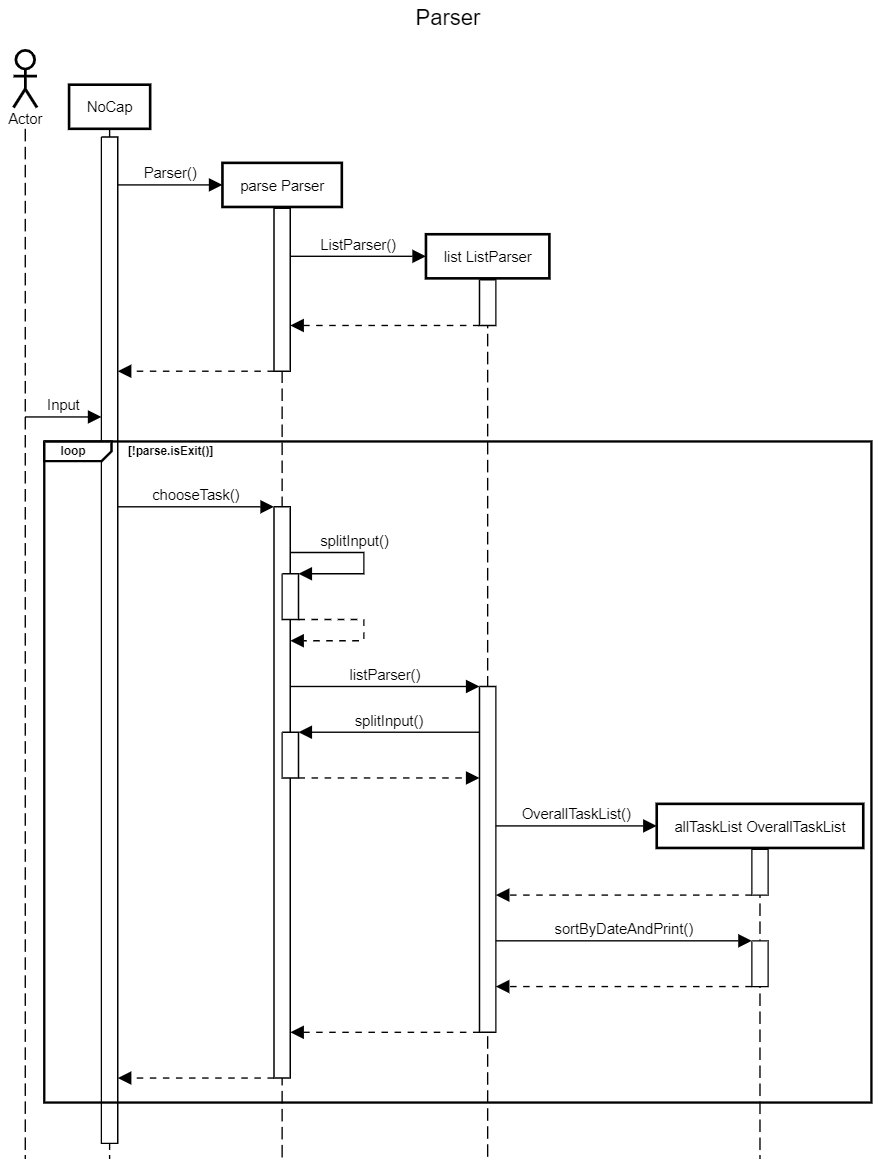
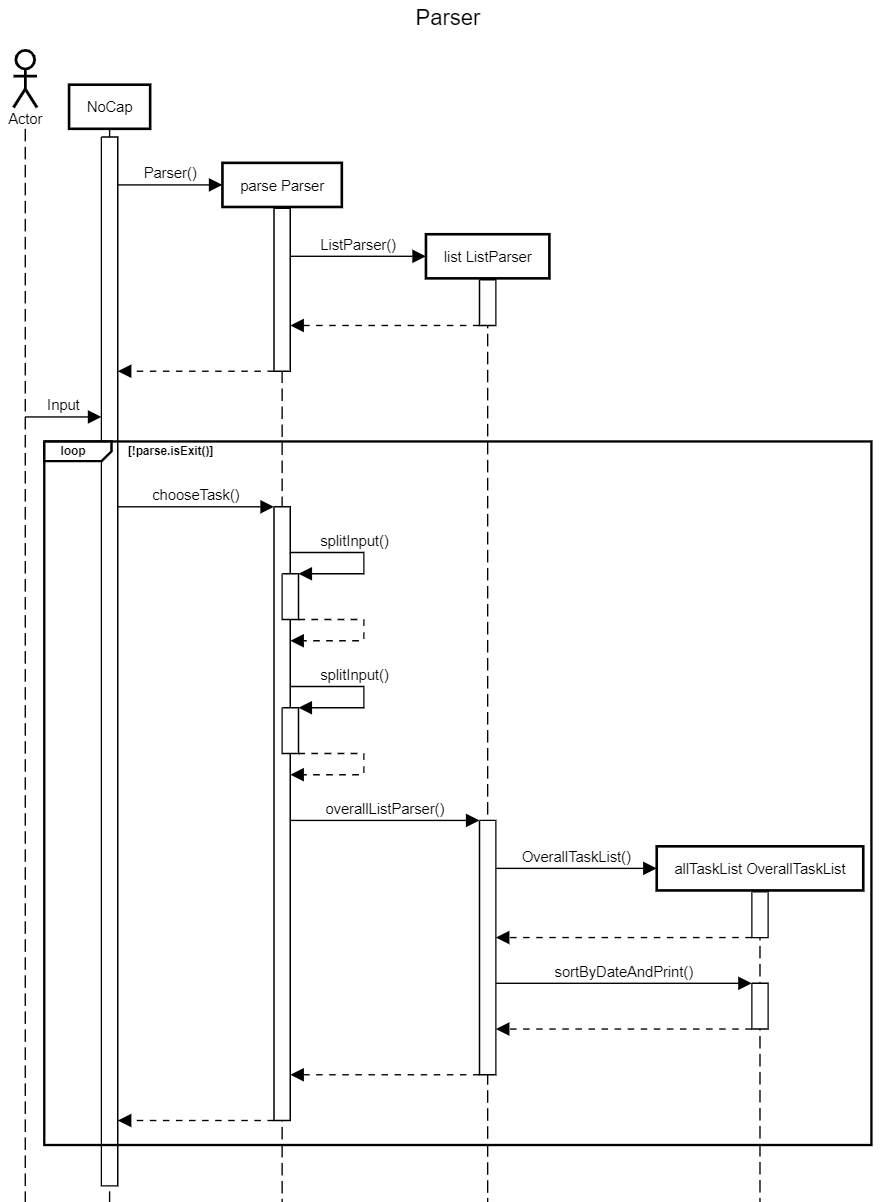
update DG

diff --git a/src/main/java/command/parser/Parser.java b/src/main/java/command/parser/Parser.java
@@ -113,8 +113,8 @@ public class Parser {
      * @param input String to be separated
      */
     void moduleParser(String input) {
-        Module module;
         splitInput(input);
+        Module module;
         try {
             module = NoCap.moduleList.find(taskType.toUpperCase(Locale.ROOT));
         } catch (ArrayIndexOutOfBoundsException e) {

diff --git a/src/test/java/command/parser/CommandTest.java b/src/test/java/command/parser/CommandTest.java
@@ -18,7 +18,7 @@ import static org.junit.jupiter.api.Assertions.assertEquals;
 
 public class CommandTest {
 
-    /*
+      /*
     @Test
     public void variousCommands_missingDescription_ErrorMessage() {
         NoCap.moduleList = new ModuleList();

diff --git a/src/main/java/command/parser/Command.java b/src/main/java/command/parser/Command.java
@@ -14,6 +14,7 @@ public class Command {
 
     private final ParserChecks parserChecks = new ParserChecks();
 
+
     public Command() {
     }
 
@@ -196,4 +197,5 @@ public class Command {
             selectedTask.markNotDone();
         }
     }
+
 }

diff --git a/docs/DeveloperGuide.md b/docs/DeveloperGuide.md
@@ -1,5 +1,7 @@
 # Developer Guide
 
+## *Navigation
+
 ## Acknowledgements
 
 {list here sources of all reused/adapted ideas, code, documentation, and third-party libraries -- include links to the original source as well}
@@ -10,52 +12,9 @@ Third party libraries:
 - [Jackson Datatype-jsr310](https://mvnrepository.com/artifact/com.fasterxml.jackson.datatype/jackson-datatype-jsr310)
 - [Jackson Annotations](https://mvnrepository.com/artifact/com.fasterxml.jackson.core/jackson-annotations)
 
-## Design & implementation
+# Design & Implementation
 
-{Describe the design and implementation of the product. Use UML diagrams and short code snippets where applicable.}
-
-
-## Product scope
-### Target user profile
-
-{Describe the target user profile}
-
-### Value proposition
-
-{Describe the value proposition: what problem does it solve?}
-
-## User Stories
-
-|Version| As a ... | I want to ... | So that I can ...|
-|--------|----------|---------------|------------------|
-|v1.0|new user|see usage instructions|refer to them when I forget how to use the application|
-|v2.0|user|find a to-do item by name|locate a to-do without having to go through the entire list|
-
-## Non-Functional Requirements
-
-{Give non-functional requirements}
-
-## Glossary
-
-* *glossary item* - Definition
-
-## Instructions for manual testing
-
-{Give instructions on how to do a manual product testing e.g., how to load sample data to be used for testing}
-
-
-
--
-# [**Acknowledgements**](https://se-education.org/addressbook-level3/DeveloperGuide.html#acknowledgements)
--
-# [**Setting up, getting started**](https://se-education.org/addressbook-level3/DeveloperGuide.html#setting-up-getting-started)
--
-# [**Design**](https://se-education.org/addressbook-level3/DeveloperGuide.html#design)
-
--
-# [Architecture](https://se-education.org/addressbook-level3/DeveloperGuide.html#architecture)
--
-# [Parser component](https://se-education.org/addressbook-level3/DeveloperGuide.html#ui-component)
+## [Parser](https://se-education.org/addressbook-level3/DeveloperGuide.html#logic-component)
 
 **API** : <code>command.parser </code>
 
@@ -67,39 +26,47 @@ The class diagram below is an overview of relationship between Parser classes an
 
 How the parsing works:
 * `NoCap` passes the user input to `Parser` which separates the input into useful information such as taskType, taskDescription, Module, etc. 
-* This information is used to call the corresponding commands in `ModuleList`, `Module` , `SemesterList`, `Semester` and `OverallTaskList`.
-* When commands include **task selection**, `ParserSearch#getTaskFromIndex()` and `ParserSearch#getTaskFromKeyword()` are called. The corresponding task is returned if found.
-* When commands include **listing tasks**, the taskDescription is passed to `ListParser` which determines the method of sorting and calls `OverallTaskList` methods accordingly.
-* `DateParser` handles parsing String into LocalDateTime format and displaying LocalDateTime as String. It is utilized by `Task`.
+* When commands include **listing tasks**, the taskDescription is passed to `ListParser` which determines the method of sorting and creates filtered `OverallTaskList` and `TaskList` accordingly.
+* Otherwise, the taskDescription is passed to `Command` which calls the corresponding commands in `SemesterList`, `Semester` ,`ModuleList`, `Module` , `Task`, `Gradable Task`. For clarity purposes, associations are shown but dependencies are not.
+* `ParserChecks` is a utility class that handles various error checking and string searching methods such as `ParserSearch#getTaskFromIndex()` and `ParserSearch#getTaskFromKeyword()`. `Command` utilizes these methods to verify the Strings before passing them to other classes. 
+*In NoCap, Parser verifies the validity of input (Whether it exists in the right format). Input content is verified by individual classes for correctness.*
+* `DateParser` handles parsing String into LocalDateTime format and displaying LocalDateTime as String. It is utilized by `Task`. Additional date formats can be added in `DateParser#inputFormatter()`
 
 Below is a step by step example of how the parser receives and decipher a user input. In this example, the user enters `list task sortbydate`.   
 
 The Sequence Diagram below illustrates the process
-![alt_text](media/ParserSequenceDiagram.png)  
+![alt_text](media/ParserSequenceDiagram.png)
 **Note**: The alternate paths are omitted from the diagram for clarity.
 
-Step 1)  
-`NoCap` creates a new `Parser` instance through the constructor. The parser class creates a `ListParser`.
+Step 1: The User launches the application. `NoCap` creates a new `Parser` instance through the constructor and `Parser` creates `ListParser`.
 
-Step 2)  
-User enters `list task sortbydate`. `NoCap` passes the input to `Parser` through `chooseTask()` method.
+Step 2: The application waits for User input. User enters `list task sortbydate`. `NoCap` passes the input to `Parser` through `Parser#chooseTask()`.
 
-Step 3)  
-`splitInput` is called for the first time and splits the user input into `list` and `task sortbydate`. `list` matches a possible command String, calling `listParser()`.  
+Step 3: `splitInput` is called for the first time and splits the user input into `list` and `task sortbydate`. 
 
-Step 4)  
-`splitInput` is called a second time and splits the second part of user input into `task` and `sortbydate`. An instance of `OverallTask` is constructed.  
+> **TaskType** is set to `list`, and **TaskDescription** is set to `task sortbydate`. 
 
-Step 5)  
-`task` and `sortbydate` both matches possible command Strings, calling `sortByDateAndPrint`. 
+**TaskType** matches a possible command String.  
+
+Step 4: `splitInput` is called for the second time and splits the user input into `task` and `sortbydate`.
+
+> **TaskType** is set to `task`, and **TaskDescription** is set to `sortbydate`.
+
+**TaskType** and **TaskDescription** are passed to `ListParser` through `ListParser#overallListParser`.
+
+Step 5: `overallListParser` creates an `OverallTaskList`. Through nested switch cases, **TaskType** and **TaskDescription** are matched, and the corresponding method `OverallTaskList#sortByDateAndPrint()` is called. As the name implies, this method sorts all tasks by date and prints them.
+
+> If **TaskType** does not match, then an error message is displayed. If **TaskDescription** does not match, all tasks are printed by default.
+
+Step 6: The full command is carried out and the application returns to NoCap and waits for new User Input.
 
 The diagram below illustrates the `splitString` process.  
 
 ![alt_text](media/splitStringDiagram.JPG)
 
 
-# [Storage component](https://se-education.org/addressbook-level3/DeveloperGuide.html#logic-component)
--
+## [Storage](https://se-education.org/addressbook-level3/DeveloperGuide.html#logic-component)
+
 **API** : `command.storage`
 
 The Storage component saves data of NoCap into JSON format, and reads them back into corresponding objects when needed using a 3rd party library Jackson Databind.
@@ -140,7 +107,7 @@ How StorageDecoder works:
 # [**Implementation**](https://se-education.org/addressbook-level3/DeveloperGuide.html#implementation)
 
 
-# Semester
+## Semester
 
 **API** : `semester`
 
@@ -153,7 +120,7 @@ The Semester component stores all NoCap data i.e., all Semester objects and cumm
 * Each Semester object stores and computes the individual CAP for the semester, while also storing a moduleList of the modules taken during the semester
 * The computation of the CAP for both SemesterList and Semester is automatically done when a grade/credit as added to a module within any semester
 
-# Module List
+## Module List
 
 **API** : module
 
@@ -180,7 +147,7 @@ How printing a timetable works:
 - If day of week and timeslot corresponds, venue and comments information is printed out
 - If day of week and timeslot does not correspond, and blank character &quot; &quot; is printed instead.
 
-# ScheduleList
+## ScheduleList
 
 **API** : schedule
 
@@ -207,7 +174,7 @@ Notes about ScheduleList
 - ScheduleList checks that the input for the day of the week is only from the list of possible days: MON, TUE, WED, THU, FRI, SAT ,SUN. All other inputs will result in an exception being thrown.
 - When a new Schedule class is called, ScheduleList ensures that the length of venue and comments are less than 16 characters in length. This is to ensure that it fits within its time slot within the Timetable when printed.
 
-# TaskList
+## TaskList
 
 **API** : `task.tasklist`
 
@@ -224,7 +191,7 @@ How the `TaskList` component works:
 7. The `ArrayList` returned by the above methods can then be passed to `printTasks()` which will call `toString()` in each `Task` object and print to the `Output Stream`.
 
 
-# Task
+## Task
 
 **API** : `task.task`
 
@@ -248,7 +215,7 @@ How the `Task` component works:
 4. Calling the `toString()` method of the` Task` object will call `createLateIcon()` ,` createStatusIcon()` , 
 
 
-# OverallTaskList
+## OverallTaskList
 
 **API** : `task.OverallTasklist`
 
@@ -272,7 +239,7 @@ How the Overall`TaskList` class works:
 
 Notes about `OverallTaskList`
 * Once `ListParser` is done using the object, it is deleted and the task list is not stored anywhere. The reason for this is to reduce coupling between objects and remove the need to update separate task lists whenever tasks are added to `Modules`.
-# OverallTask
+## OverallTask
 
 **API** : `task.OverallTask`
 
@@ -299,3 +266,17 @@ How the `OverallTask` component works:
     * OverallTask(gradableTask:GradableTask, moduleName: String) - Instantiates using a `GradableTask `object
 4. During instantiation, information from `Task/GradableTask` objects are added to the `OverallTask` object together with their `moduleName.`
 5. Calling the  `toString()` method` `generates a string containing task information together with its `moduleName.`
+
+
+{Describe the design and implementation of the product. Use UML diagrams and short code snippets where applicable.}
+
+
+# Appendix A: Product Scope
+
+# Appendix B: User Stories
+
+# Appendix C: Non Functional Requirements
+
+# Appendix D: Glossary
+
+# Appendix E: Instructions for Manual Testing
